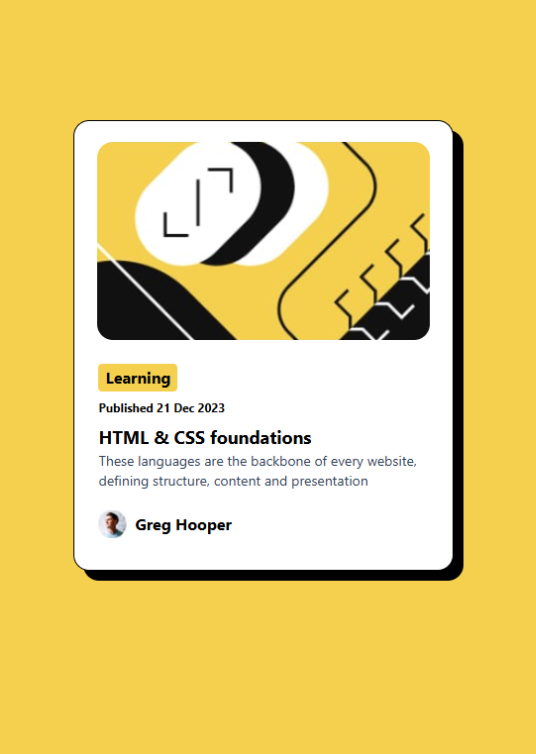
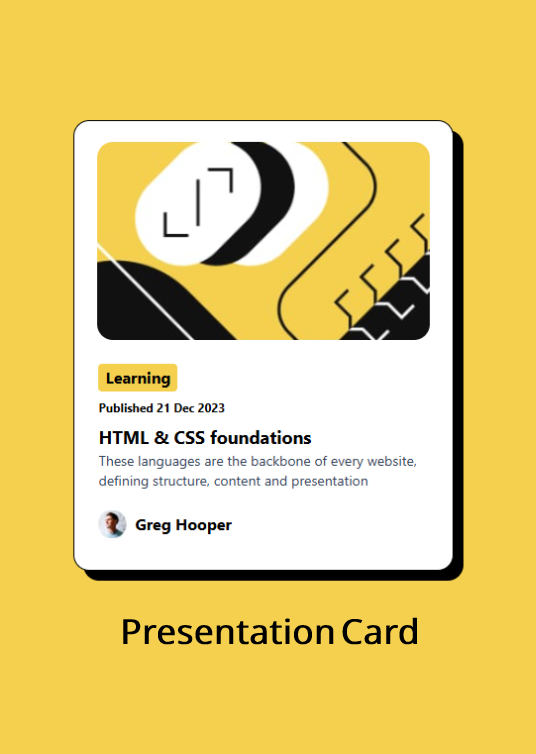
adding final tailwind to the project

Changed region(s): [[0.209, 0.8236, 0.7761, 0.8541]]

diff --git a/index.html b/index.html
@@ -7,125 +7,131 @@
     
     <title>Portfolio</title>
 </head>
-<body>
-    <header>
-        <img src="img/mc.png" alt="mc letters" loading="lazy"> <!--header's img-->
-        <nav>
-            <ul>
-                <li><a href="##">About Me</a></li>
-                <li><a href="##">Skills</a></li>
-                <li><a href="##">Projects</a></li>
+<body class="bg-dark text-light ">
+    <header  class="flex justify-between items-center">
+        <img src="img/mc.png" alt="mc letters" loading="lazy" class="w-25 px-5"> <!--header's img-->
+        <nav class="">
+            <ul class="flex justify-evenly w-[70vw]">
+                <li class="hover:text-neonGreen uppercase"><a href="##" >About Me</a></li>
+                <li class="hover:text-neonGreen uppercase"><a href="##">Skills</a></li>
+                <li class="hover:text-neonGreen uppercase"><a href="##">Projects</a></li>
             </ul>
         </nav>
-        <div> <!--Contact-->
-            <button>
+        <div class="px-5 hover:text-neonGreen"> <!--Contact-->
+            <button class="flex items-center justify-center border px-2 gap-2 rounded-2xl uppercase">
                 Contact
-                <img src="img/top-right.png" alt="top right arrow" loading="lazy">
+                <img src="img/top-right.png" alt="top right arrow" loading="lazy" class="w-5 bg-highlight p-1 rounded-4xl ">
             </button>
         </div>
     </header>
     <main>
-        <section><!--I'm Marvin -->
-            <h1>I'm <span>Marvin Canastuj</span> <strong>Full Stack</strong> Developer</h1>
-            <article>
-                <h2>Client Review From Guatemala <span>10</span></h2> <!--Client review-->
-                <p>In this seccion will be included a review from a client, based on service provided.</p>
+        <section class="relative flex justify-center items-center flex-col bg-linear-to-t from-[#2b4682] to-[#0a0f22] overflow-hidden"><!--I'm Marvin -->
+            <div class="absolute mt-70 w-100 h-200
+                bg-[radial-gradient(circle,#77826a_30%,transparent_90%)]
+                blur-3xl z-0">
+            </div>
+            <div class="mt-20 z-10"> 
+                <h1 class="text-center text-6xl ">I'm <span class="text-highlight">Marvin Canastuj</h1>
+                <p class="text-center text-6xl relative bottom-10"> </span><br> <span class="border border-softGray rounded-2xl px-2">Full Stack</span> Developer</p>
+            </div>
+            <article class="w-60 absolute top-100 left-0 transform-[matrix(1,-0.15,0,1,0,0)] p-4 rounded-2xl bg-deepBlue z-10 shadow-[0px_0_30px_10px_#2f3a4e]" >
+                <h2 class="font-bold pb-2">Client Review From Guatemala <span class="bg-purple-950/50 ml-2 px-2 rounded-sm">10</span></h2> <!--Client review-->
+                <p class="text-sm text-softGray">In this seccion will be included a review from a client, based on service provided.</p>
             </article>
-            <img src="img/marvin.png" alt="Marvin's Photo" loading="lazy">
-            <button>Mu Projects</button>
-            <article> <!--expertice-->
-                <h2>My Expertice</h2>
-                <div>
-                    <p>BACKEND</p>
-                    <div><!--Add line-->
-                        <div></div> <!--Add circle-->
+            <img src="img/marvin.png" alt="Marvin's Photo" loading="lazy" class="z-10">
+            <button class="absolute bg-highlight text-dark rounded-2xl py-1 px-4 font-bold border-2 bottom-20 z-10 hover:py-2 hover:px-5 uppercase">My Projects</button>
+            <article class="w-60 absolute top-100 right-0 transform-[matrix(1,0.15,0,1,0,0)] p-4 rounded-2xl bg-deepBlue z-10 shadow-[0_0_30px_10px_#2f3a4e]"> <!--expertice-->
+                <h2 class="text-softGray uppercase">My Expertise</h2>
+                <div class="flex">
+                    <p class="text-softGray">BACKEND</p>
+                    <div class="px-2"> ——————<!--Add line-->
+                        <div class="border p-1 absolute rounded-2xl top-12 right-20 bg-purple-950"></div> <!--Add circle-->
                     </div> 
-                    <p>0%</p>
+                    <p>70%</p>
                 </div>
-                <div>
-                    <p>CMS</p>
-                    <div><!--Add line-->
-                        <div></div> <!--Add circle-->
+                <div class="flex">
+                    <p class="text-softGray">CMS</p>
+                    <div class="px-2">——————<!--Add line-->
+                        <div class="border p-1 absolute rounded-2xl bottom-11.5 right-33 bg-sky-800"></div> <!--Add circle-->
                     </div> 
-                    <p>0%</p>
+                    <p class="px-10">50%</p>
                 </div>
-                <div>
-                    <p>FRONTEND</p>
-                    <div> <!--Add line-->
-                        <div></div> <!--Add circle-->
+                <div class="flex">
+                    <p class="text-softGray">FRONTEND</p>
+                    <div class="px-2"> —————<!--Add line-->
+                        <div class="border p-1 absolute rounded-2xl bottom-5.5 right-15 bg-amber-300"></div> <!--Add circle-->
                     </div> 
-                    <p>50%</p>
+                    <p>90%</p>
                 </div>
-                <!--Pensar como agregar-->
             </article>
         </section>
-        <section><!--who am i -->
-            <img src="img/marvin_dos.jpg" alt="Marvin's image">
-            <img src="img/marvin.png" alt="Marvin's image">
-            <img src="img/marvin_tres.png" alt="Marvin's image">
-            <article>
-                <h2>WHO AM I ?</h2>
+        <section class="text-center flex justify-center items-center py-50 relative"><!--who am i -->
+            <img src="img/marvin_dos.jpg" alt="Marvin's image" class="absolute w-15 h-20 left-40 top-40 -rotate-20 rounded-2xl shadow-[-15px_-15px_25px_15px_#2f3a4e]">
+            <img src="img/marvin_tres.png" alt="Marvin's image" class="absolute w-25 h-35 left-20 bottom-70 rotate-20 rounded-2xl shadow-[0_0_25px_15px_#2f3a4e]" >
+            <img src="img/marvin_tres.png" alt="Marvin's image" class="absolute w-25 h-35  -rotate-20 right-30 top-70 rounded-2xl shadow-[-15px_-15px_50px_15px_#2f3a4e]">
+            <article class="w-100">
+                <h2 class="text-6xl text-highlight mb-10">WHO AM I ?</h2>
                 <p>I am a full-stack developer specializing in front-end development, with experience creating modern and functional user interfaces. I work with technologies such as React, Vite, Tailwind CSS, HTML and JavaScript, as well as Node.js for server-side development<br> I enjoy building efficient, scalable applications with a good user experience, paying close attention to both the design and the logic behind each project.<br>Also, programming is my passion, so I constantly work on my academic growth to continue expanding my knowledge in this field</p>
-                <button>Show My Projects</button>
+                <button class="bg-highlight py-1 px-4 mt-5 rounded-2xl text-dark font-bold hover:px-5 hover:py-2 uppercase">Show My Projects</button>
             </article>
         </section>
-        <section><!--My skills-->
-            <h2>MY SKILLS</h2>
-            <article>
-                <img src="img/html-5.png" alt="HMTL" loading="lazy">
-                <img src="img/css-3.png" alt="CSS" loading="lazy">
-                <img src="img/js.png" alt="JavaScript" loading="lazy">
-                <img src="img/react.png" alt="React" loading="lazy">
-                <img src="img/next.webp" alt="Next" loading="lazy">
-                <img src="img/nodejs.png" alt="Node js" loading="lazy">
-                <img src="img/tailwindcss-mark.96ee6a5a.svg" alt="Tailwind" loading="lazy">
-                <img src="img/vuejs.png" alt="Vue js" loading="lazy">
-                <div> <!--4 years experience-->
-                    <p>4 <br>Years Experience Working</p>
-                    <button>Download My CV</button>
+        <section class="flex flex-col justify-center items-center gap-25"><!--My skills-->
+            <h2 class="text-center text-6xl text-highlight">MY SKILLS</h2>
+            <article class="grid grid-cols-6 w-[90vw] gap-2">
+                <img src="img/html-5.png" alt="HMTL" loading="lazy" class="px-10 py-15 bg-deepBlue rounded-2xl">
+                <img src="img/css-3.png" alt="CSS" loading="lazy" class="px-10 py-15 bg-deepBlue rounded-2xl">
+                <img src="img/js.png" alt="JavaScript" loading="lazy" class="px-10 py-15 bg-deepBlue rounded-2xl">
+                <img src="img/react.png" alt="React" loading="lazy" class="px-10 py-15 bg-deepBlue rounded-2xl">
+                <img src="img/next.webp" alt="Next" loading="lazy" class="px-10 py-15 bg-deepBlue rounded-2xl">
+                <img src="img/nodejs.png" alt="Node js" loading="lazy" class="px-10 py-15 bg-deepBlue rounded-2xl">
+                <img src="img/java.png" alt="Tailwind" loading="lazy" class="px-10 py-15 bg-deepBlue rounded-2xl">
+                <img src="img/vuejs.png" alt="Vue js" loading="lazy" class="px-10 py-15 bg-deepBlue rounded-2xl">
+                <div class="row-start-1 row-end-3 col-start-5 col-end-7 bg-deepBlue rounded-2xl flex flex-col justify-center items-center p-14"> <!--4 years experience-->
+                    <p class="text-center text-6xl font-bold mb-5">4</p>
+                    <p class="text-2xl text-center font-bold">Years Experience Working</p>
+                    <button class="bg-highlight text-dark rounded-2xl px-2 py-1 font-bold my-5 hover:px-3 hover:py-2 uppercase">Download My CV</button>
                 </div>
             </article>
-            <article><!--Additional skills-->
-                <h3>Additional Skills</h3>
-                <img src="img/angular.png" alt="Angular" loading="lazy">
-                <img src="img/bootstrap.png" alt="Bootstrap" loading="lazy">
-                <img src="img/c++.png" alt="C++" loading="lazy">
-                <img src="img/c-sharp.png" alt="C-sharp" loading="lazy">
-                <img src="img/github.png" alt="Github" loading="lazy">
-                <img src="img/php.png" alt="PHP" loading="lazy">
-                <img src="img/python.png" alt="Python" loading="lazy">
+            <article class="bg-deepBlue rounded-2xl flex flex-col w-[90vw] p-5 "><!--Additional skills-->
+                <h3 class="text-center text-highlight text-4xl mb-10 uppercase">Additional Skills</h3>
+                <div class="grid grid-cols-7 px-10">
+                    <img src="img/angular.png" alt="Angular" loading="lazy" class="p-5">
+                    <img src="img/bootstrap.png" alt="Bootstrap" loading="lazy" class="p-5">
+                    <img src="img/c++.png" alt="C++" loading="lazy" class="p-5">
+                    <img src="img/c-sharp.png" alt="C-sharp" loading="lazy" class="p-5">
+                    <img src="img/github.png" alt="Github" loading="lazy" class="p-5">
+                    <img src="img/php.png" alt="PHP" loading="lazy" class="p-5">
+                    <img src="img/python.png" alt="Python" loading="lazy" class="p-5">
+                </div>
             </article>
         </section>
-        <section><!--The works -->
-            <div>
-                <p>The works closest to my heart</p>
-                <button>Show My Projects</button>
+        <section class="flex justify-center items-center my-10 py-20 "><!--The works -->
+            <div class="relative w-[45vw]">
+                <p class="text-6xl font-bold p-10 uppercase -mt-20">The works closest to my heart</p>
+                <button class="absolute bg-highlight rounded-2xl text-dark font-bold px-6 py-1 right-[-5%] -bottom-10  z-10 hover:px-7 hover:py-2 uppercase">Show My Projects</button>
             </div>
-            <div>
-                <div>
-                    <img src="img/project1.png" alt="Project one" loading="lazy">
-                    <p>Presentation Card</p>
+            <div class="flex w-[45vw] h-100 gap-2">
+                <div class="w-50 h-full hover:w-100 rounded-2xl overflow-hidden">
+                    <img src="img/project1.png" alt="Project one" loading="lazy" class="w-full h-full object-cover transition-all duration-500 hover:scale-110" >
                 </div>
-                <div>
-                    <img src="img/project2.png" alt="Project two" loading="lazy">
-                    <p>QR Code Card</p>
+                <div class="w-50 h-full hover:w-100 rounded-2xl overflow-hidden">
+                    <img src="img/project2.png" alt="Project two" loading="lazy" class="w-full h-full object-cover transition-all duration-500 hover:scale-110">
                 </div>
-                <div>
-                    <img src="img/project3.png" alt="Project three" loading="lazy">
-                    <p>Product Register</p>
+                <div class="w-50 h-full hover:w-100 rounded-2xl overflow-hidden">
+                    <img src="img/project3.png" alt="Project three" loading="lazy" class="w-full h-full object-cover transition-all duration-500 hover:scale-110">
                 </div>
             </div>
         </section>
-        <section><!--Let's chat-->
-            <h2>Let's have a chat</h2>
-            <input type="text" placeholder="Your Name">
-            <input type="email" placeholder="Email Address">
-            <textarea name="textarea" placeholder="Chat Here"></textarea>
-            <button>Submit Here</button>
+        <section class="bg-light flex flex-col justify-center items-center gap-4 py-20 rounded-2xl"><!--Let's chat-->
+            <h2 class="text-dark m-20 text-6xl font-bold uppercase">Let's have a chat</h2>
+            <input type="text" placeholder="Your Name" class="bg-gray-200 text-gray-800 w-[80vw] p-5 rounded-2xl hover:border">
+            <input type="email" placeholder="Email Address" class="bg-gray-200 text-gray-800 w-[80vw] p-5 rounded-2xl hover:border">
+            <textarea name="textarea" placeholder="Chat Here" class="bg-gray-200 text-gray-800 w-[80vw] p-5 rounded-2xl hover:border"></textarea>
+            <button class="bg-highlight text-dark w-[80vw] p-5 rounded-2xl hover:bg-dark hover:text-highlight font-bold text-2xl">Submit Here</button>
         </section>
     </main>
-    <footer>
-        <p> Copyright ©2026 </p>
+    <footer class=" p-10">
+        <p class="text-center"> Copyright ©2026 </p>
     </footer>
 </body>
 </html>

diff --git a/styles/styles.css b/styles/styles.css
@@ -1,1 +1,10 @@
 @import "tailwindcss";
+
+@theme {
+    --color-dark: #0D1117;
+    --color-light: #FFFFFF;
+    --color-highlight: #E3FF6A;
+    --color-neonGreen: #A4FF7A;
+    --color-deepBlue: #1E293B;
+    --color-softGray: #8892B0;
+}
